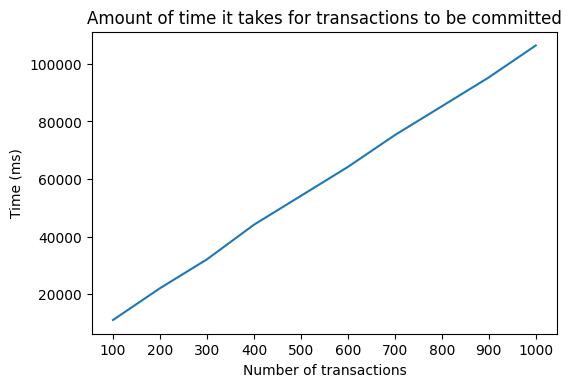
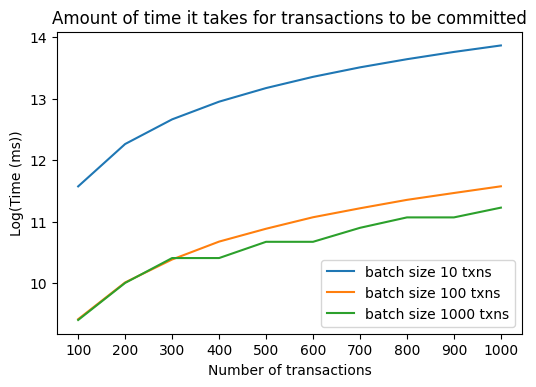
graphs

diff --git a/code/appgdpr/javascript/logbench.js b/code/appgdpr/javascript/logbench.js
@@ -2,9 +2,10 @@ var axios = require("axios");
 
 const buff = []
 var result = 0
-const numberofentries = 1000
+const numberofentries = 10000
 let counter = 0
 let printOnce = false
+const resultBuff = []
 const sendRequest = async () => {
     try {
         // console.log('send request called')
@@ -57,11 +58,16 @@ const getLogs = async (numberofentries, startTime) => {
     return new Promise(async (resolve) => {
         // console.log('getlogs called')
         var s = setInterval(async () => {
+            if (new Date().valueOf() - startTime > 900000) {
+                console.log("stopped tooo slow")
+                clearInterval(s)
+                resolve(result, resultBuff)
+            }
             if (counter === numberofentries) {
                 console.log('found!')
                 console.log('result is: ', result)
                 clearInterval(s)
-                resolve(result)
+                resolve(result, resultBuff)
             }
 
             const res = await axios.get('http://localhost:5344/log/all/admin')
@@ -89,9 +95,10 @@ const getLogs = async (numberofentries, startTime) => {
                         }
 
                         if (printOnce) {
-                            console.log(counter, new Date().valueOf() - startTime)
+                            const respair = (counter, new Date().valueOf() - startTime)
                             console.log("time it takes: ")
-                            console.log(new Date().valueOf() - startTime)
+                            console.log(respair)
+                            resultBuff.push(respair)
                             printOnce = false
                         }
                     }
@@ -105,7 +112,7 @@ const getLogs = async (numberofentries, startTime) => {
                     console.log('found!')
                     console.log('result is: ', result)
                     clearInterval(s)
-                    resolve(result)
+                    resolve(result, resultBuff)
                 }
             }
         },
@@ -132,6 +139,12 @@ const main = async () => {
     const bench = runBench(startTime)
     await bench
     console.log('took this time to run : ', new Date().valueOf() - startTime)
+    console.log(resultBuff)
+    const times = []
+    for(let i = 0; i < resultBuff.length; i++) {
+        times.push(resultBuff[i])
+    }
+    console.log(times.join(", "))
 }
 
 main()

diff --git a/code/appgdpr/javascript/db.js b/code/appgdpr/javascript/db.js
@@ -62,7 +62,7 @@ const insertLog = async () => {
 
     // const res = new Promise(async (resolve, reject) => {
     var entries = []
-    db.each("SELECT * FROM logs order by time limit 100", async (err, row) => {
+    db.each("SELECT * FROM logs order by time limit 1000", async (err, row) => {
         // console.log(row.id, row.log)
         entries.push(row)
     }, async () => {
